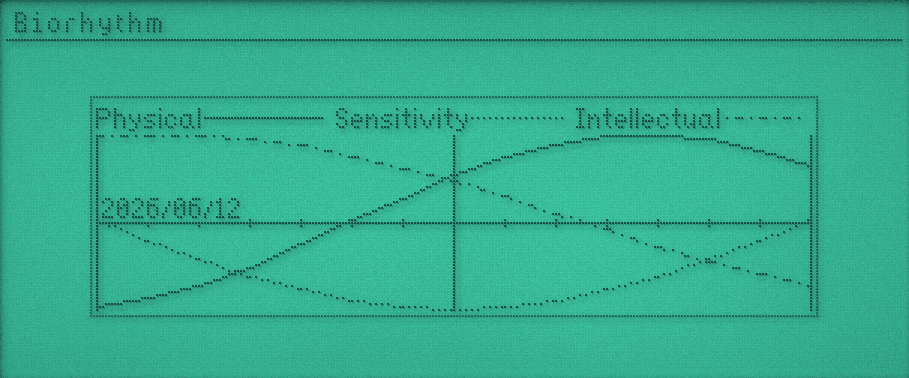
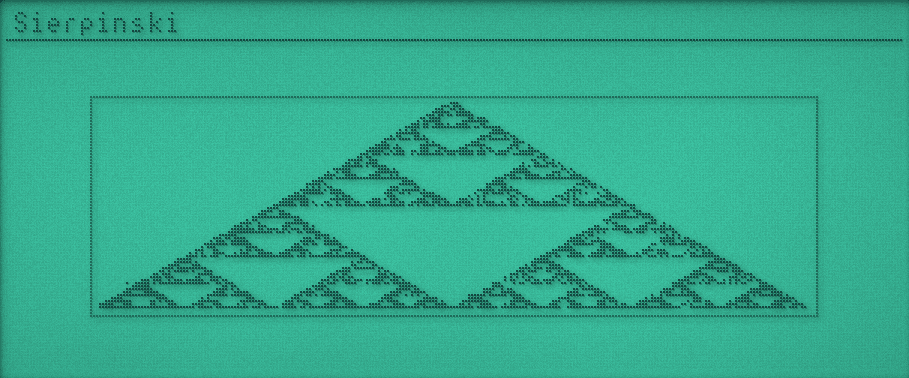
Bundle a Sierpinski BASIC sample built by tools/make_wzd.py, seed it into Sharp BASIC and use it for the README shot.

diff --git a/tools/make_wzd.py b/tools/make_wzd.py
@@ -1,0 +1,88 @@
+import os
+import re
+import sys
+
+sys.path.insert(0, os.path.join(os.path.dirname(os.path.abspath(__file__)), "..", "os"))
+
+from system.sharpbasic.tokens import NAMES
+
+KEYWORDS = {}
+for code, name in sorted(NAMES.items()):
+    KEYWORDS.setdefault(name, code)
+BY_LENGTH = sorted(KEYWORDS, key=len, reverse=True)
+JUMPS = ("GOTO", "GOSUB", "THEN", "ELSE", "RESTORE", "RESUME")
+
+
+def encode_line(text):
+    out = bytearray()
+    i = 0
+    after_jump = False
+    while i < len(text):
+        char = text[i]
+        if char == '"':
+            end = text.find('"', i + 1)
+            end = len(text) if end < 0 else end + 1
+            out += text[i:end].encode("latin-1")
+            i = end
+            after_jump = False
+            continue
+        if after_jump and char.isdigit():
+            j = i
+            while j < len(text) and text[j].isdigit():
+                j += 1
+            out += b"\x1a\x00\x00" + text[i:j].encode("latin-1")
+            i = j
+            after_jump = False
+            continue
+        upper = text[i:].upper()
+        keyword = next((name for name in BY_LENGTH if upper.startswith(name)
+                        and not (i > 0 and text[i - 1].isalnum())), None)
+        if keyword:
+            out += bytes((0xFE, KEYWORDS[keyword]))
+            i += len(keyword)
+            if keyword in ("REM", "DATA"):
+                out += text[i:].encode("latin-1")
+                break
+            after_jump = keyword in JUMPS
+            continue
+        if char != " ":
+            after_jump = False
+        out += char.encode("latin-1")
+        i += 1
+    return bytes(out)
+
+
+def encode(source):
+    lines = []
+    for raw in source.splitlines():
+        raw = raw.strip()
+        if not raw:
+            continue
+        match = re.match(r"(\d+)\s*(.*)", raw)
+        if not match:
+            raise SystemExit("line without a number: " + raw)
+        lines.append((int(match.group(1)), encode_line(match.group(2))))
+    listing = bytearray()
+    for index, (number, body) in enumerate(lines):
+        terminator = 0x0F if index == len(lines) - 1 else 0x0D
+        body = body + bytes((terminator,))
+        listing += bytes((number >> 8, number & 0xFF, len(body))) + body
+    return bytes(listing)
+
+
+def main():
+    source_path, output_path, title = sys.argv[1], sys.argv[2], sys.argv[3]
+    description = sys.argv[4] if len(sys.argv) > 4 else ""
+    listing = encode(open(source_path, encoding="latin-1").read())
+    name = os.path.splitext(os.path.basename(output_path))[0].upper()[:8]
+    header = ("<SHARP WZD DATA>\r\n<DATA TYPE>\r\nBASIC\r\n</DATA TYPE>\r\n<TITLE>\r\n{}\r\n</TITLE>\r\n"
+              "<CATEGORY>\r\nPROGRAM\r\n</CATEGORY>\r\n<DESCRIPTION>\r\n{}\r\n</DESCRIPTION>\r\n"
+              "<CONTENT>\r\nBIN_PROG_1\r\n</CONTENT>\r\n<DATA>\r\nPFILE:{}.BAS\r\n</DATA>\r\n<BIN>\r\n").format(
+        title, description, name)
+    with open(output_path, "wb") as output:
+        output.write(header.encode("latin-1") + b"\x00" + listing)
+    print("{}: {} bytes of BASIC".format(output_path, len(listing)))
+
+
+if __name__ == "__main__":
+    main()

diff --git a/tools/readme_screenshots.py b/tools/readme_screenshots.py
@@ -14,7 +14,7 @@ ROOT = os.path.dirname(os.path.dirname(os.path.abspath(__file__)))
 OUTPUT = os.path.join(ROOT, "docs", "screenshots")
 BINARY = os.path.join(ROOT, "sham")
 OS_DIR = os.path.join(ROOT, "os")
-SAMPLE_WZD = os.path.join(ROOT, "..", "zq77x-emu", "apps", "basic", "Biorhythm.wzd")
+SAMPLE_WZD = os.path.join(OS_DIR, "samples", "wzd", "Sierpinski.wzd")
 
 TIMEZONE = "Europe/London"
 MOMENT = (2026, 6, 12, 9, 41, 20)
@@ -132,8 +132,8 @@ LCD_SHOTS = [
     {"name": "mines", "exec": launch("mines", seed=5), "keys": "{ENTER}"},
     {"name": "blocks", "exec": launch("blocks", seed=2, extra=BLOCKS_SETUP), "keys": "{LEFT}{LEFT}{UP}"},
     {"name": "snake", "exec": launch("snake", seed=4, extra=SNAKE_SETUP)},
-    {"name": "sharp_basic", "exec": SILENCE + "; import apps.sharp; apps.sharp.run('/data/wzd/Biorhythm.wzd'); ui.invalidate()",
-     "keys": "1990/05/17{ENTER}{ENTER}{ENTER}", "frames": 400, "needs_wzd": True},
+    {"name": "sharp_basic", "exec": SILENCE + "; import apps.sharp; apps.sharp.run('/data/wzd/Sierpinski.wzd'); ui.invalidate()",
+     "frames": 1500},
 ]
 
 DEVICE_SHOTS = [
@@ -238,16 +238,12 @@ def device_shot(shot, work):
 def main():
     parser = argparse.ArgumentParser(description="Render the README screenshots into docs/screenshots.")
     parser.add_argument("names", nargs="*", help="only these shots")
-    parser.add_argument("--wzd", default=SAMPLE_WZD, help="Sharp BASIC program for the sharp_basic shot")
     options = parser.parse_args()
     os.makedirs(OUTPUT, exist_ok=True)
     work = tempfile.mkdtemp()
     try:
-        wzd = options.wzd if os.path.exists(options.wzd) else None
+        wzd = SAMPLE_WZD
         for shot in LCD_SHOTS:
-            if shot.get("needs_wzd") and not wzd:
-                print("{}: no {}, skipped".format(shot["name"], options.wzd))
-                continue
             if not options.names or shot["name"] in options.names:
                 lcd_shot(shot, work, wzd)
                 print(shot["name"])

diff --git a/os/apps/sharp.py b/os/apps/sharp.py
@@ -1,6 +1,6 @@
 import os
 
-from system import keys, ui
+from system import keys, store, ui
 from system.gfx import MID
 from system.sharpbasic import program, screen
 from system.sharpbasic.interpreter import Interpreter
@@ -11,6 +11,7 @@ ORDER = 66
 
 FOLDER = "/data/wzd"
 FILES = "/data/sharp"
+SAMPLES = "/samples/wzd"
 
 KEY_CODES = {
     keys.LEFT: 15, keys.RIGHT: 14, keys.ENTER: 10, keys.ESC: 27, keys.BACKSPACE: 12, keys.DELETE: 12,
@@ -103,8 +104,21 @@ def run(path):
     ui.push(ui.Screen(loaded.title or "Sharp BASIC", BasicView(loaded, finished)))
 
 
+def seed_samples():
+    seeded = store.load("wzd_seeded", [])
+    existing = os.listdir(FOLDER)
+    for name in os.listdir(SAMPLES):
+        if name not in seeded:
+            if name not in existing:
+                with open(SAMPLES + "/" + name, "rb") as source, open(FOLDER + "/" + name, "wb") as target:
+                    target.write(source.read())
+            seeded.append(name)
+    store.save("wzd_seeded", seeded)
+
+
 def programs():
     ensure(FOLDER)
+    seed_samples()
     return sorted(name for name in os.listdir(FOLDER) if name.lower().endswith(".wzd"))
 
 

diff --git a/README.md b/README.md
@@ -18,13 +18,13 @@ Sharp Handheld Approximation (MicroPython): a fantasy pocket computer in the spi
 | ![Options](docs/screenshots/options.png) | ![Owner card](docs/screenshots/owner.png) | ![Guide](docs/screenshots/guide.png) |
 | Options | Owner information at start-up | Guide, with the SDK reference |
 | ![Char Map](docs/screenshots/charmap.png) | ![Patterns](docs/screenshots/patterns.png) | ![Sharp BASIC](docs/screenshots/sharp_basic.png) |
-| Char Map | Patterns | Sharp BASIC running Biorhythm.wzd |
+| Char Map | Patterns | Sharp BASIC running Sierpinski.wzd |
 | ![Dungeon](docs/screenshots/dungeon.png) | ![Solitaire](docs/screenshots/solitaire.png) | ![Mines](docs/screenshots/mines.png) |
 | Dungeon | Solitaire | Mines |
 | ![Blocks](docs/screenshots/blocks.png) | ![Snake](docs/screenshots/snake.png) | ![Compact layout](docs/screenshots/device_compact.png) |
 | Blocks | Snake | View > Compact |
 
-`make screenshots` regenerates these into `docs/screenshots/` (`tools/readme_screenshots.py`, needs ffmpeg and pngquant): a fixed date and time, sound off, seeded demo data and fixed game seeds. `--lcd=FILE` saves just the LCD, `--lcd-cell=N` sets its pixel size. The Sharp BASIC shot needs a `.wzd`, passed with `--wzd=FILE`.
+`make screenshots` regenerates these into `docs/screenshots/` (`tools/readme_screenshots.py`, needs ffmpeg and pngquant): a fixed date and time, sound off, seeded demo data and fixed game seeds. `--lcd=FILE` saves just the LCD, `--lcd-cell=N` sets its pixel size.
 
 ## Build
 
@@ -91,7 +91,7 @@ Menu settings (REPL, layout, borderless, compact, backlight, dead columns, scrat
 
 ## Sharp BASIC
 
-The Sharp BASIC app runs BASIC programs for the Sharp OZ-7xx and ZQ-7xx organisers straight from their `.wzd` files, without the Sharp firmware. The interpreter (`os/system/sharpbasic/`) reads the tokenised listing and draws into a 239x70 area in the Sharp's own font (`os/fonts/sharp.ppf`, captured from the firmware's output). Files opened as `E:NAME` live in `sharp/` in the data directory. Machine code programs (a `CALL` stub followed by Z80 code) are refused.
+The Sharp BASIC app runs BASIC programs for the Sharp OZ-7xx and ZQ-7xx organisers straight from their `.wzd` files, without the Sharp firmware. The interpreter (`os/system/sharpbasic/`) reads the tokenised listing and draws into a 239x70 area in the Sharp's own font (`os/fonts/sharp.ppf`, captured from the firmware's output). Files opened as `E:NAME` live in `sharp/` in the data directory. Machine code programs (a `CALL` stub followed by Z80 code) are refused. `os/samples/wzd/Sierpinski.wzd` is copied into `wzd/` on first use; `make samples` rebuilds it from `tools/basic/sierpinski.bas` with `tools/make_wzd.py`.
 
 It was checked against the firmware running in the zq77x-emu emulator: token names, key codes, error numbers, number formatting, `DATE$`/`TIME$` and text widths come from programs run there.
 
